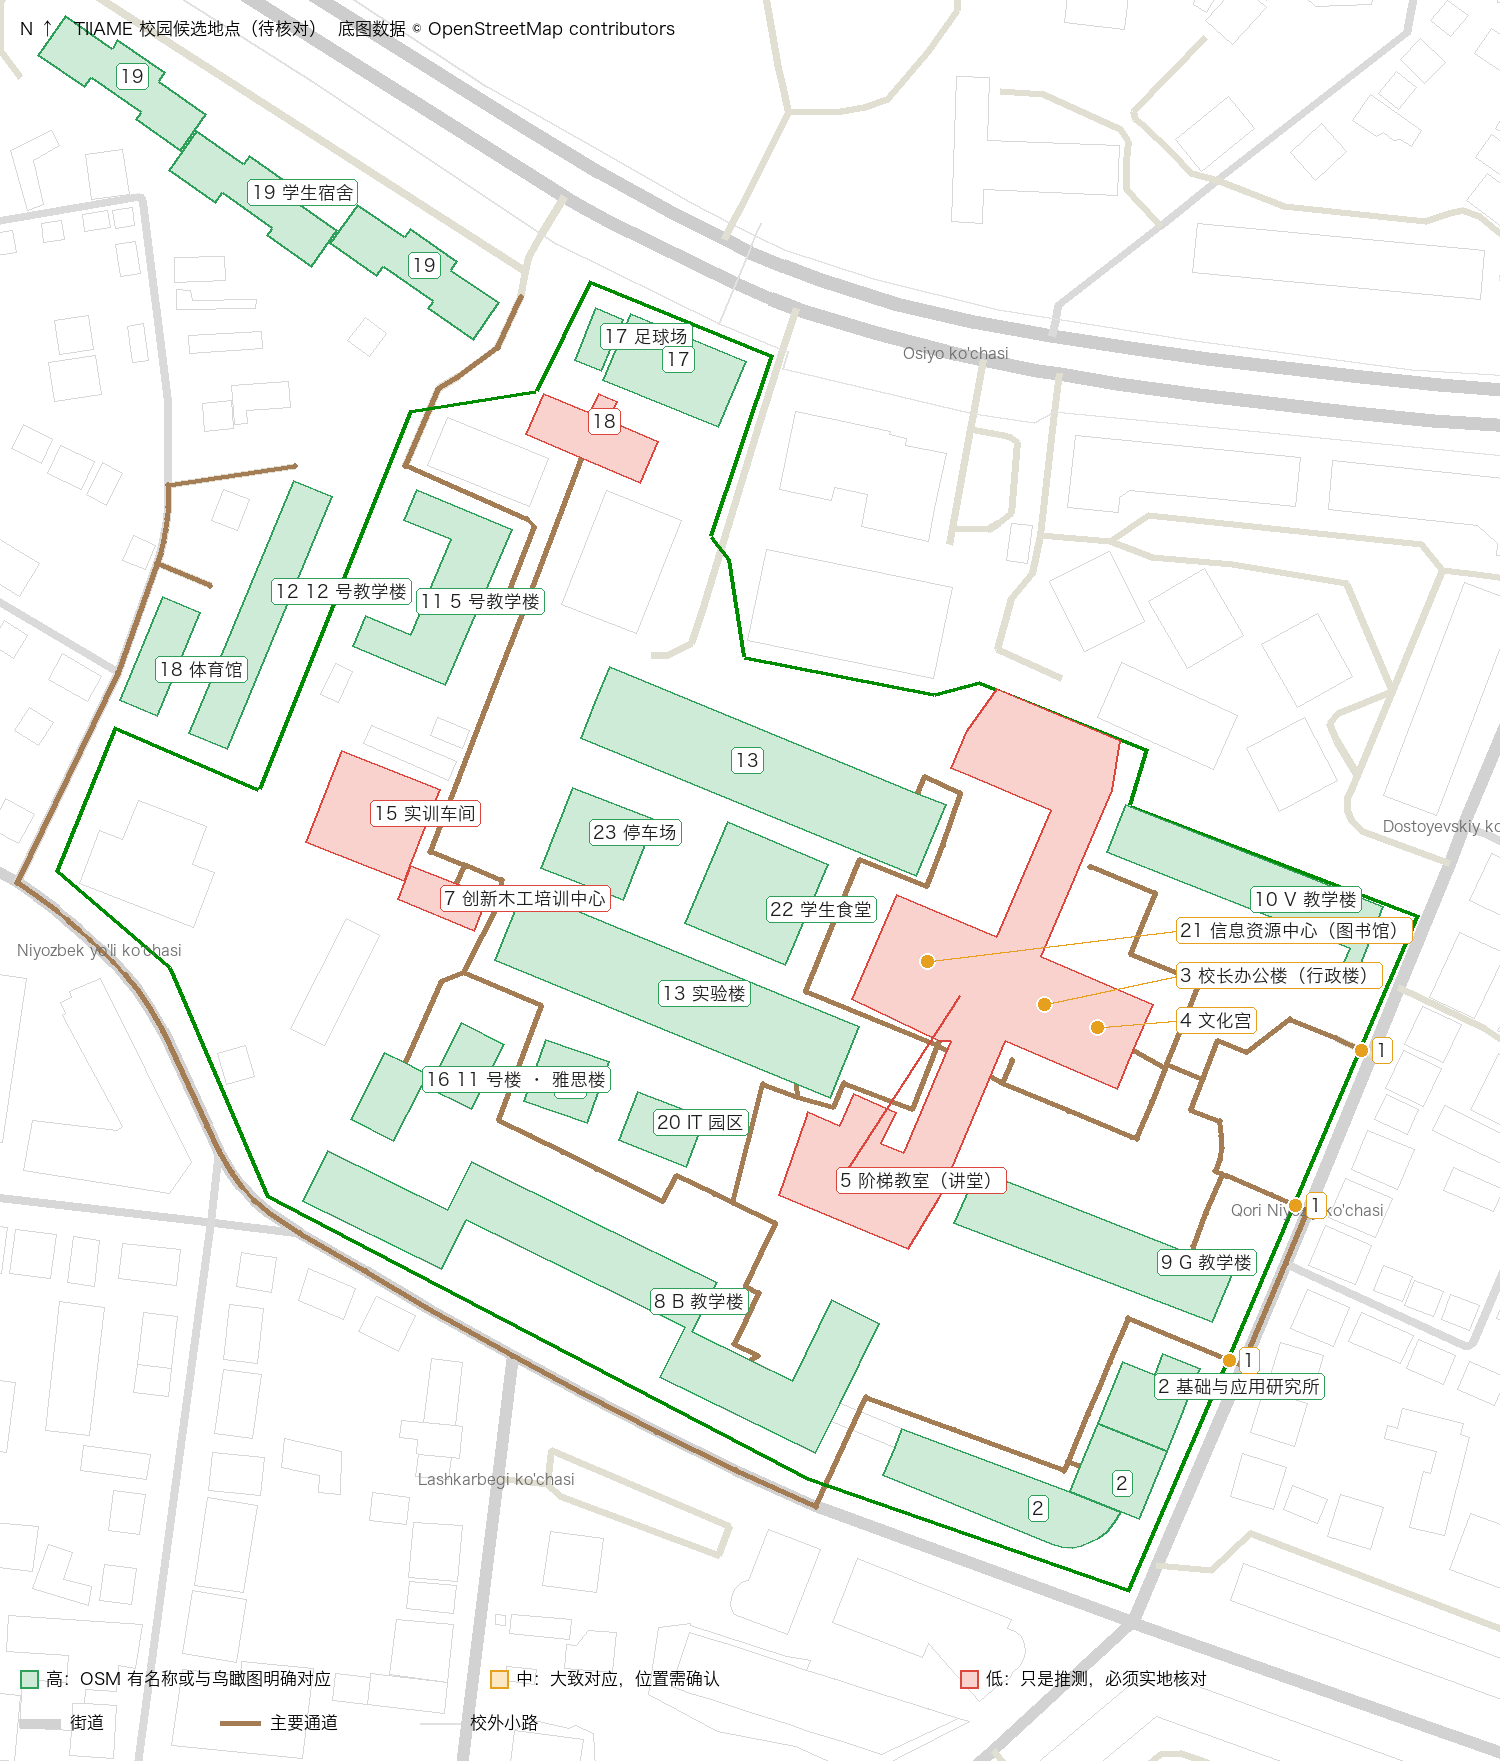
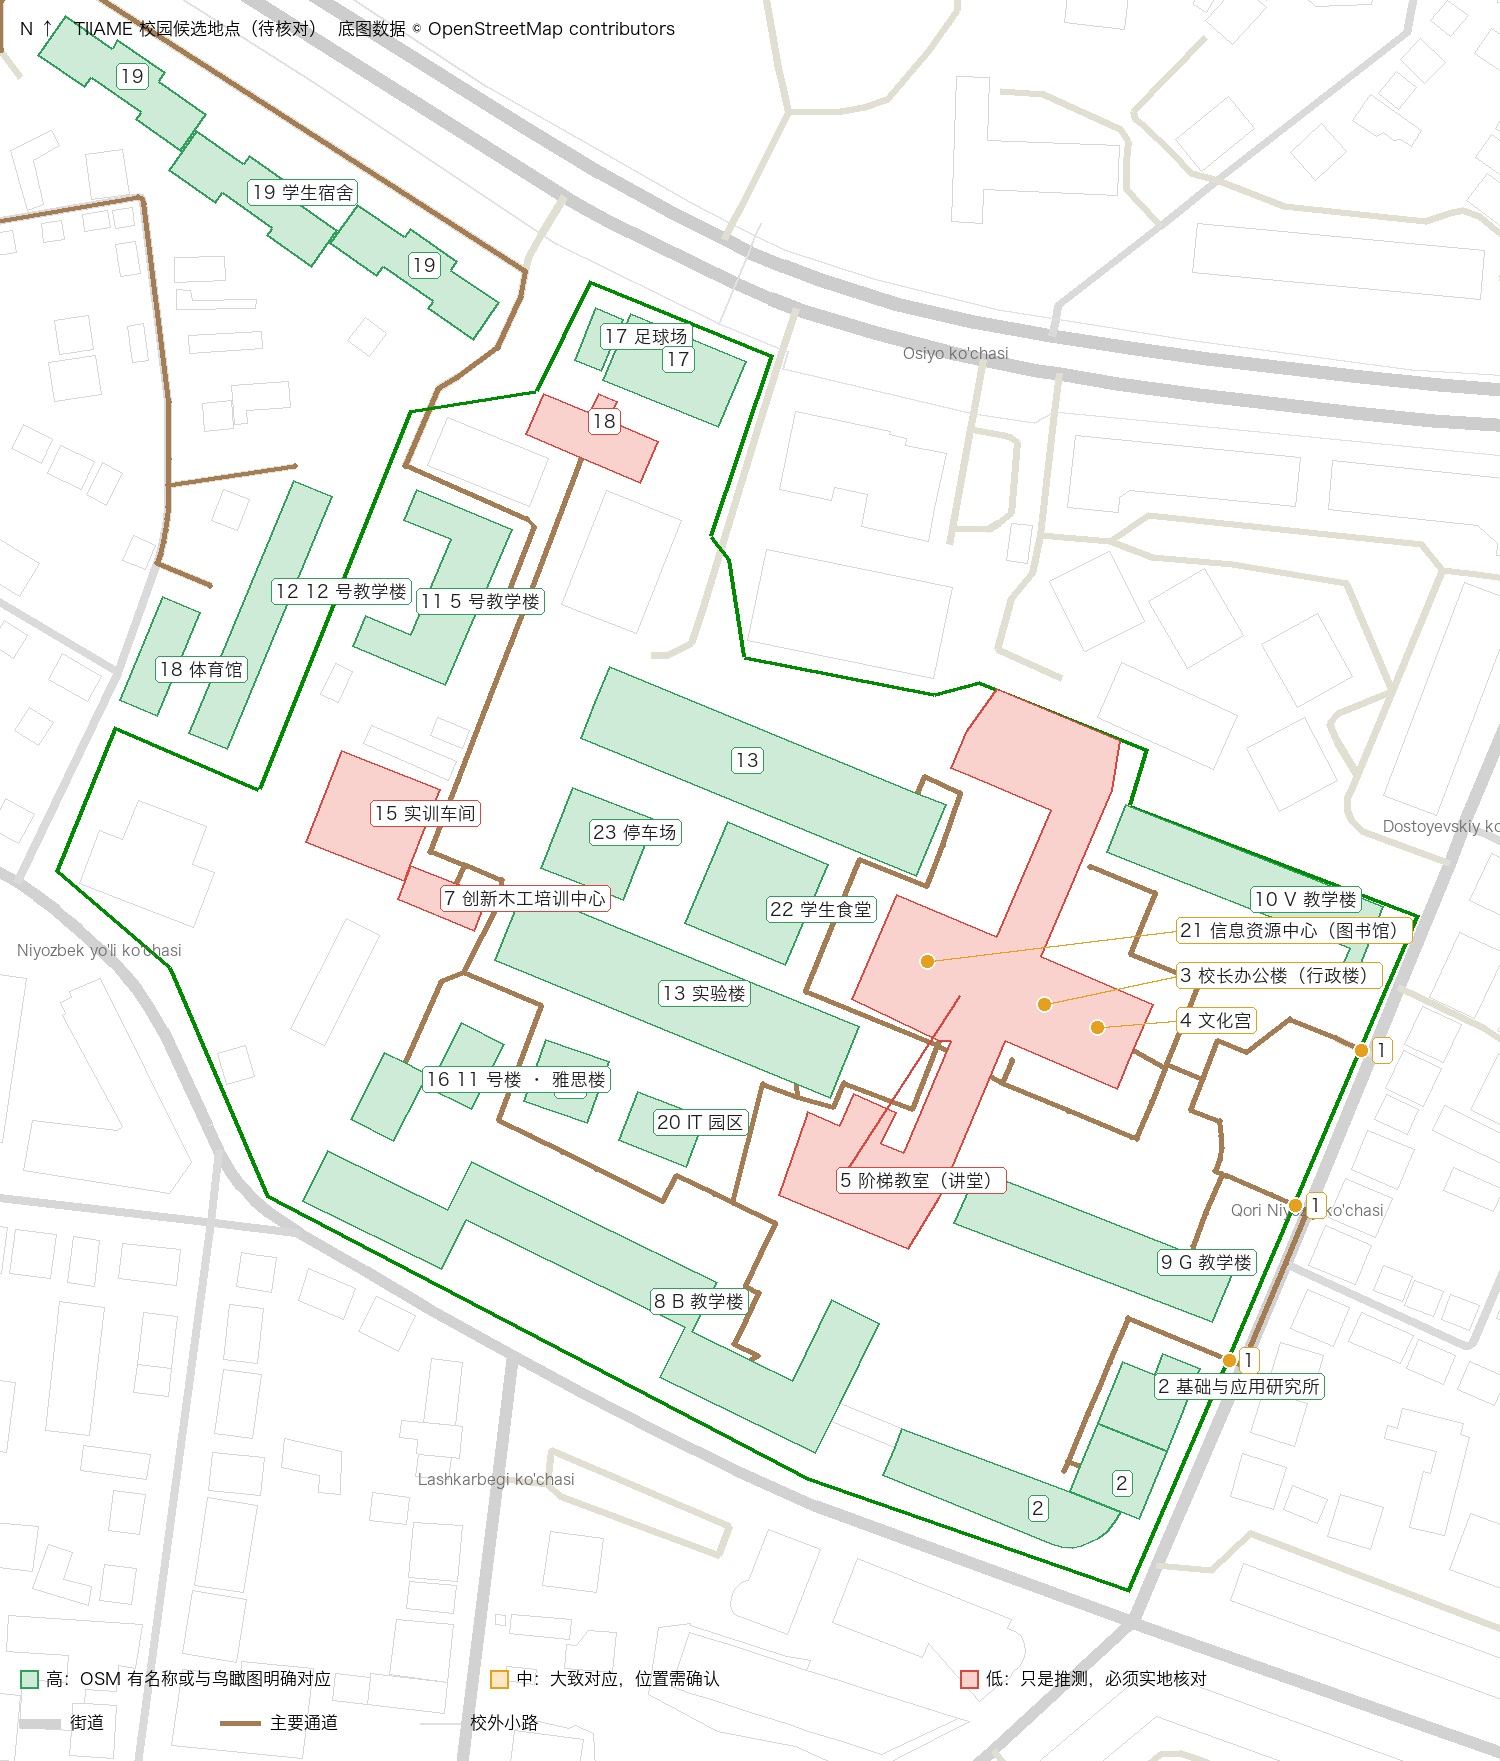
Add international student dormitory and dormitories 1 and 1a
Adds quick routes from the international dormitory to the IELTS building,
canteen and library.

diff --git a/app.js b/app.js
@@ -14,6 +14,9 @@ const CATEGORY_COLOR = {
 
 // Common walks for newcomers (start legend no -> end legend no).
 const QUICK = [
+  { from: 102, to: 16, text: "国际生宿舍 → 雅思楼" },
+  { from: 102, to: 22, text: "国际生宿舍 → 食堂" },
+  { from: 102, to: 21, text: "国际生宿舍 → 图书馆" },
   { from: 19, to: 16, text: "宿舍 → 雅思楼" },
   { from: 19, to: 22, text: "宿舍 → 食堂" },
   { from: 19, to: 21, text: "宿舍 → 图书馆" },

diff --git a/photos/README.md b/photos/README.md
@@ -1,13 +1,17 @@
 # Photos / 实景照片
 
 Put one photo per place here, named by its number on the official campus map
-(`legend_no` in `data/places.candidates.geojson`), as JPEG:
+(`legend_no` in `data/places.candidates.geojson`), as JPEG. Numbers 100 and up
+are places added by this project that the official map does not show.
 
-每个地点放一张照片，按官方校园图上的编号命名（JPG 格式）：
+每个地点放一张照片，按官方校园图上的编号命名（JPG 格式）。100 以上的编号是官方图上没有、本项目自加的地点：
 
 | File | Place |
 |---|---|
 | `16.jpg` | 11 号楼 · 雅思楼 |
+| `18.jpg` | 体育馆（39a/2） |
+| `102.jpg` | 国际生宿舍（Chingiz Aytmatov 街 18 号） |
+| `103.jpg` | 宿舍（Osiyo 街 1 号、1a 号） |
 | `19.jpg` | 学生宿舍 |
 | `21.jpg` | 信息资源中心（图书馆） |
 | `22.jpg` | 学生食堂 |
